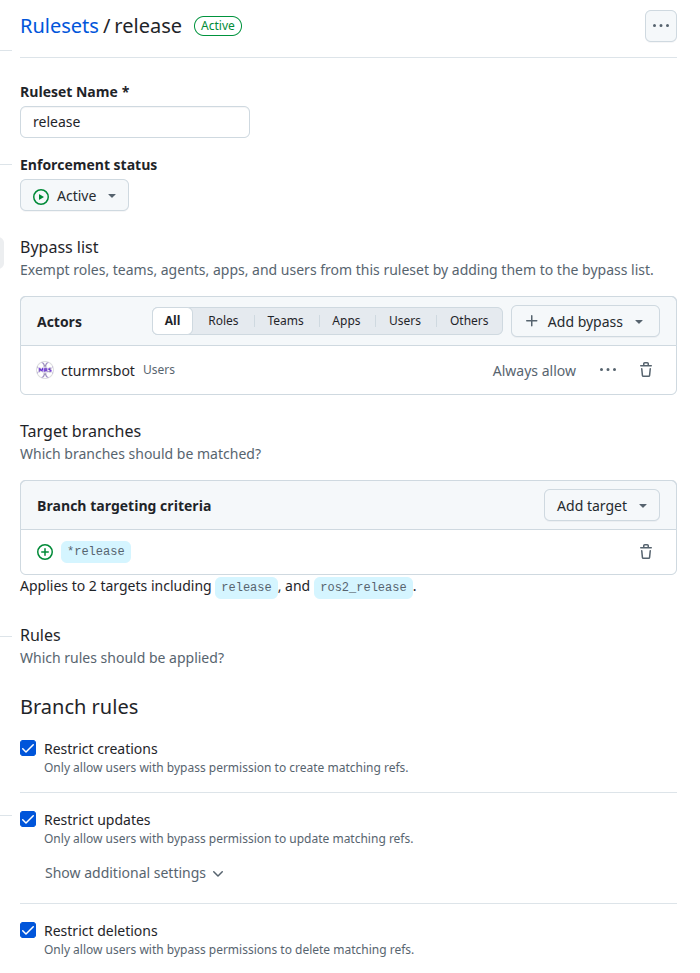
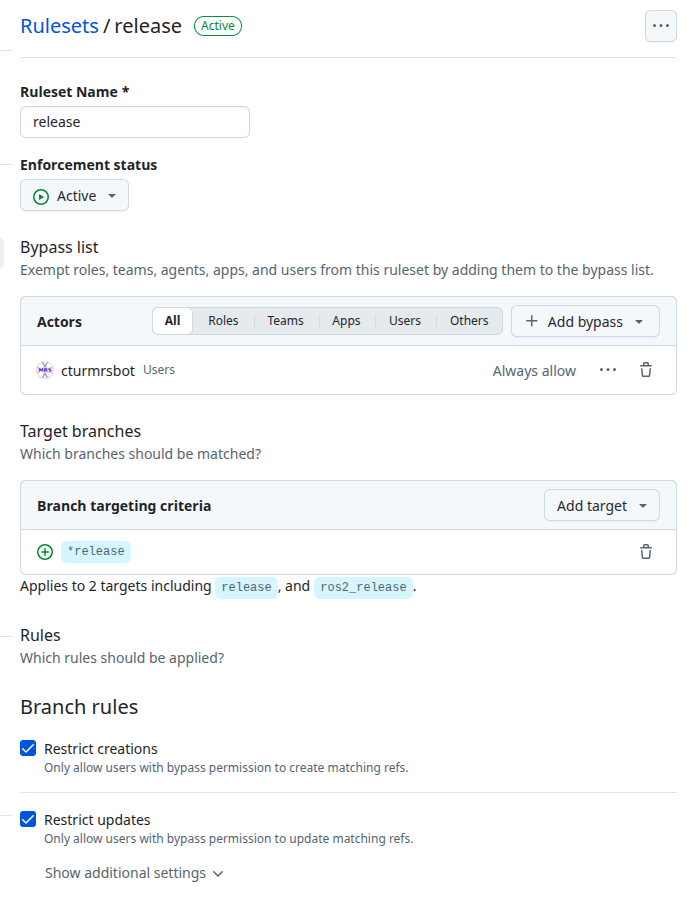
Remove bad practice from images

diff --git a/docs/80-for-system-developers/build_pipeline.md b/docs/80-for-system-developers/build_pipeline.md
@@ -427,30 +427,6 @@ jobs:
     uses: ctu-mrs/ci_scripts/.github/workflows/ros_build_test.yml@ros2
 ```
 
-##### For ROS 1 (`ros1_devel` &rarr; `ros1` / `master`):
-```yaml
-name: ros_build_test
-
-on:
-  push:
-    branches: [ ros1_devel, devel ] # accepts both during ros1_devel transition
-    paths-ignore:
-      - '**/README.md'
-
-  pull_request:
-    branches: [ ros1, master ]
-
-  workflow_dispatch:
-
-concurrency:
-  group: ${{ github.workflow }}-${{ github.ref }}
-  cancel-in-progress: true
-
-jobs:
-  build:
-    uses: ctu-mrs/ci_scripts/.github/workflows/ros_build_test.yml@master
-```
-
 ---
 
 ### Step 5: Register the Package in the Buildfarm
